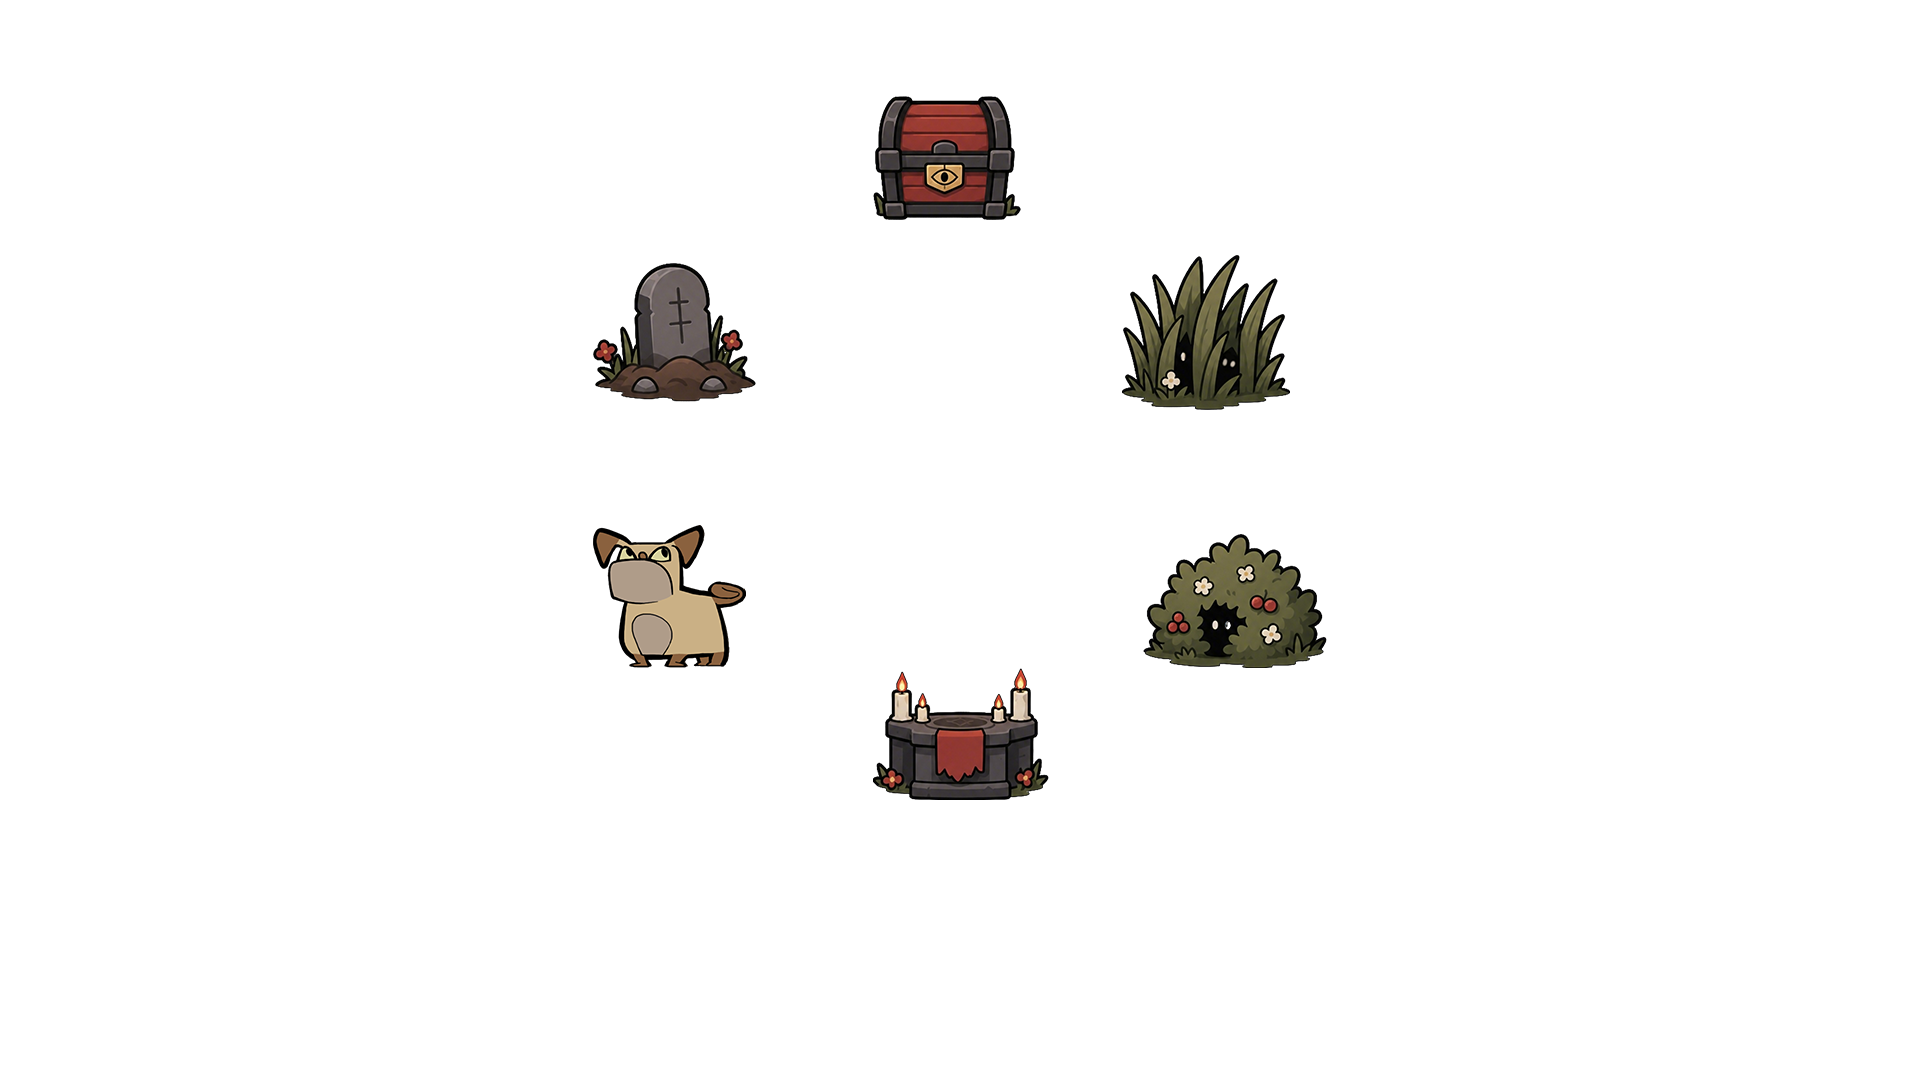
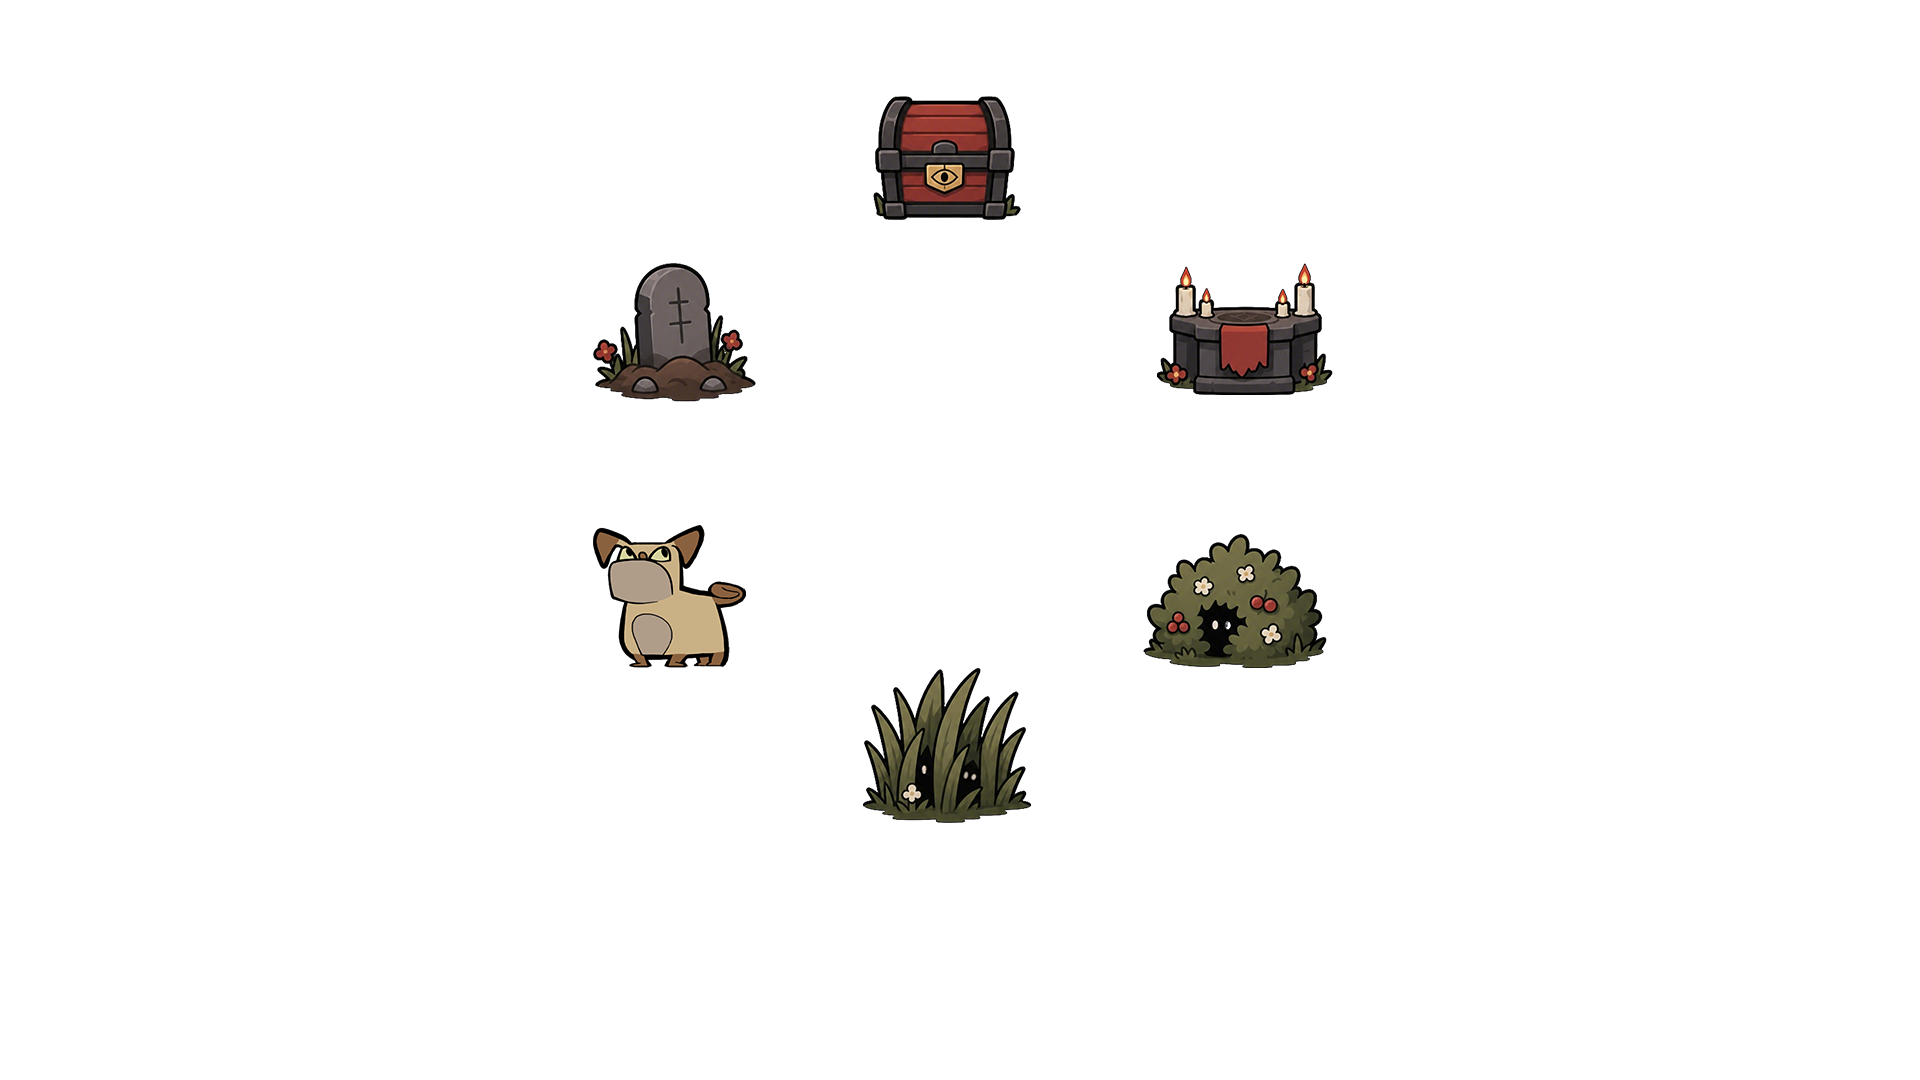
教程

Changed region(s): [[0.4375, 0.6111, 0.5625, 0.7639], [0.5625, 0.2444, 0.6875, 0.3972]]

diff --git a/Scripts/guide/NewbieGuide.cs b/Scripts/guide/NewbieGuide.cs
@@ -2,6 +2,8 @@ using Godot;
 
 public partial class NewbieGuide : Node
 {
+	[Export] public Control? Personal;
+
 	[Export] public Control? Skill1;
 	[Export] public Control? Skill2;
 
@@ -20,8 +22,9 @@ public partial class NewbieGuide : Node
 	{
 		"左键点击高亮格子可以移动角色，驱散迷雾获得能量",
 		"地图格上不同事件会产生不同效果",
-		"使用技能消耗能量",
-		"boss行动条满后释放技能",
+		"左下角显示了玩家当前的属性状态",
+		"使用技能消耗能量，悬停可查看技能情况",
+		"移动/触发事件会使boss行动条增长1格，行动条满后boss释放技能",
 		"驱散场上所有迷雾击败boss获得胜利"
 	};
 
@@ -49,7 +52,7 @@ public partial class NewbieGuide : Node
 
 		_curStep++;
 
-		if (_curStep > 5)
+		if (_curStep > 6)
 		{
 			_guideEnd = true;
 			HideAllUI();
@@ -82,14 +85,17 @@ public partial class NewbieGuide : Node
 				GuideTipImg2?.Show();
 				break;
 			case 3:
+				SetZ(Personal, 100);
+				break;
+			case 4:
 				SetZ(Skill1, 100);
 				SetZ(Skill2, 100);
 				break;
-			case 4:
+			case 5:
 				SetZ(Boss1, 100);
 				SetZ(Boss2, 100);
 				break;
-			case 5:
+			case 6:
 				// 最后一步：只隐藏遮罩，不卡死
 				if (GuideMask != null) GuideMask.Visible = false;
 				break;
@@ -106,6 +112,7 @@ public partial class NewbieGuide : Node
 
 	private void ResetAllZ()
 	{
+		SetZ(Personal, 0);
 		SetZ(Skill1, 0);
 		SetZ(Skill2, 0);
 		SetZ(Boss1, 0);
